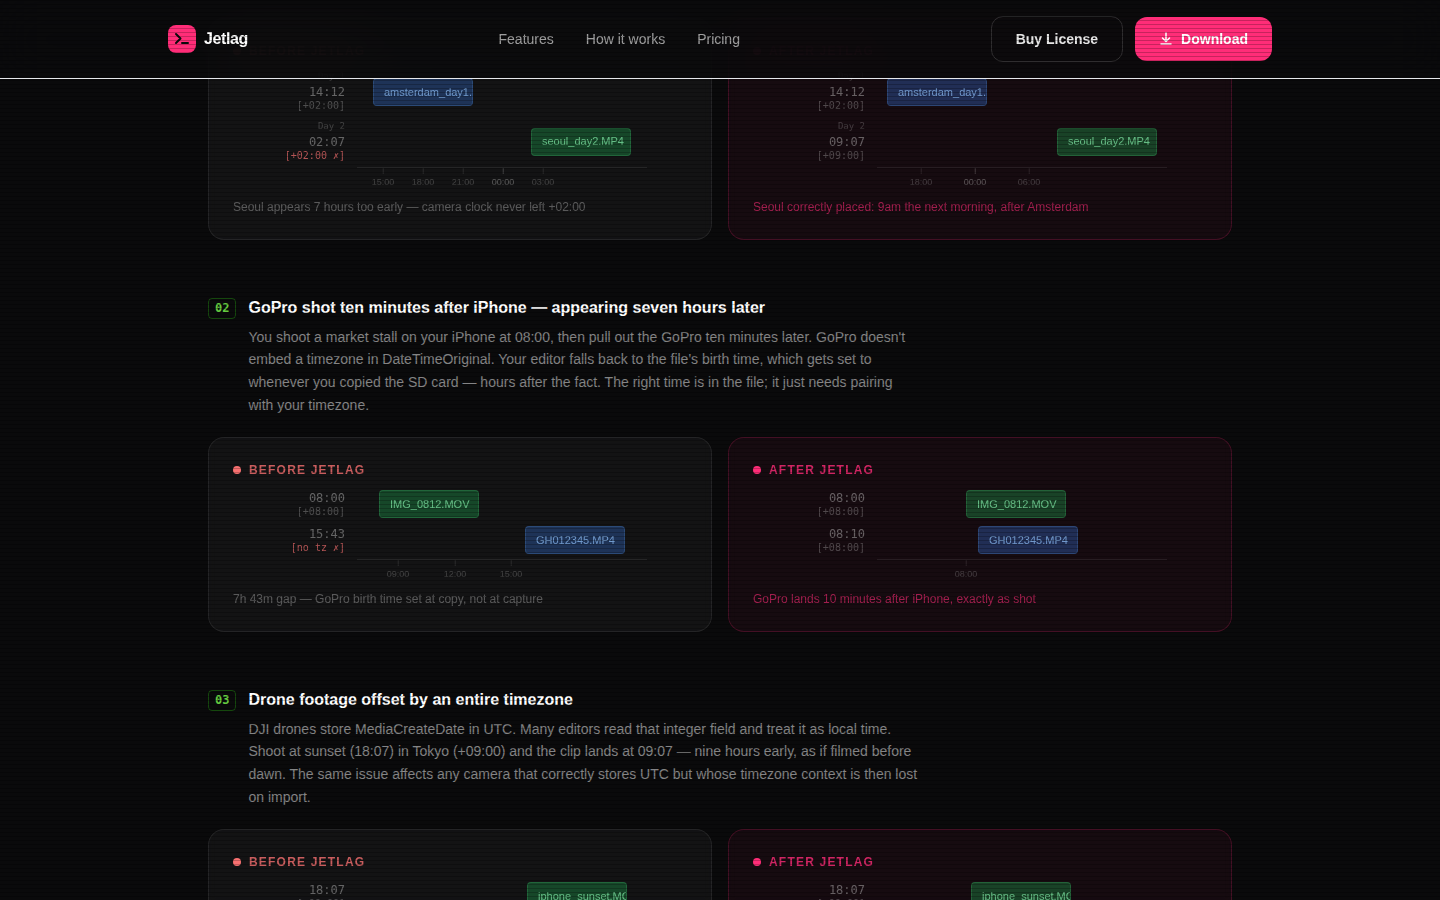
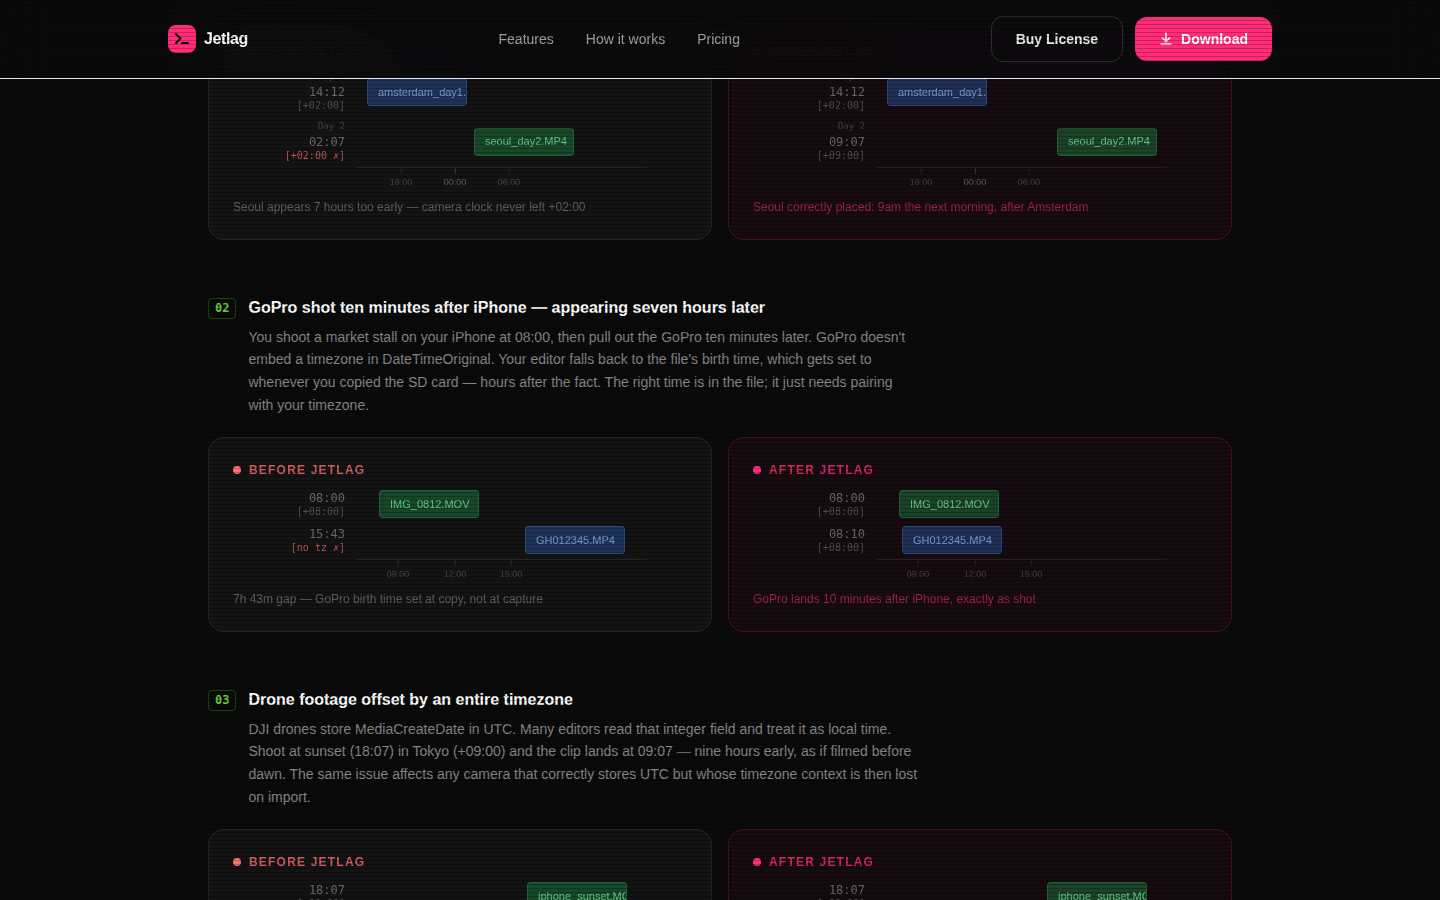
use shared scale across before/after cards so positions are comparable
Each scenario's before and after cards were deriving independent scales
from their own clips, so Amsterdam landed at the same pixel in both —
hiding the fact that Seoul has moved. The shift was invisible.

Replaced renderTimelineCard with renderScenarioCards which builds one
scale from all clips across both cards before rendering either. Now
Amsterdam sits at the same x in both cards and Seoul's bar moves right
in the 'after', showing the 7-hour correction as a visible gap.

Tested by taking screenshots of all three scenarios.

https://claude.ai/code/session_014fBd75GSgp6v64iWGXU35b

Changed region(s): [[0.625, 0.5289, 0.75, 0.6222], [0.25, 0.0933, 0.4375, 0.1867], [0.6562, 0.9644, 0.8125, 1.0]]

diff --git a/web/src/components/timeline.js b/web/src/components/timeline.js
@@ -98,18 +98,16 @@ function renderAxis(scale) {
   `
 }
 
-export function renderTimelineCard(card, isAfter) {
+function renderCard(card, isAfter, scale) {
   const dot        = isAfter ? 'bg-neon-pink'              : 'bg-red-400'
   const labelClass = isAfter ? 'text-neon-pink/80'         : 'text-red-400/80'
   const label      = isAfter ? 'After Jetlag'              : 'Before Jetlag'
   const cardClass  = isAfter ? 'card border-neon-pink/20 bg-neon-pink/5' : 'card'
   const capClass   = isAfter ? 'text-neon-pink/60'         : 'text-white/30'
 
-  // Only show "Day N" labels when the card contains clips across multiple days.
+  // Show "Day N" labels when this card's clips span multiple days.
   const days     = new Set(card.clips.map(c => c.day ?? 0))
   const multiDay = days.size > 1
-
-  const scale = buildScale(card.clips)
 
   return /* html */`
     <div class="${cardClass}">
@@ -123,5 +121,16 @@ export function renderTimelineCard(card, isAfter) {
       ${renderAxis(scale)}
       <p class="mt-3 text-xs ${capClass}">${card.caption}</p>
     </div>
+  `
+}
+
+// Render both cards for a scenario sharing one scale derived from all clips
+// combined. This ensures clip positions are comparable across before/after:
+// Amsterdam lands at the same x in both cards; only Seoul's bar moves.
+export function renderScenarioCards(before, after) {
+  const sharedScale = buildScale([...before.clips, ...after.clips])
+  return `
+    ${renderCard(before, false, sharedScale)}
+    ${renderCard(after,  true,  sharedScale)}
   `
 }

diff --git a/web/src/sections/problem.js b/web/src/sections/problem.js
@@ -1,4 +1,4 @@
-import { renderTimelineCard } from '../components/timeline.js'
+import { renderScenarioCards } from '../components/timeline.js'
 
 export function renderProblem() {
   // Clip fields: time (HH:MM), day (0-based, 0=same day as first clip),
@@ -95,8 +95,7 @@ export function renderProblem() {
                 </div>
               </div>
               <div class="grid gap-4 sm:grid-cols-2 overflow-x-auto">
-                ${renderTimelineCard(s.before, false)}
-                ${renderTimelineCard(s.after, true)}
+                ${renderScenarioCards(s.before, s.after)}
               </div>
             </div>
           `).join('')}
